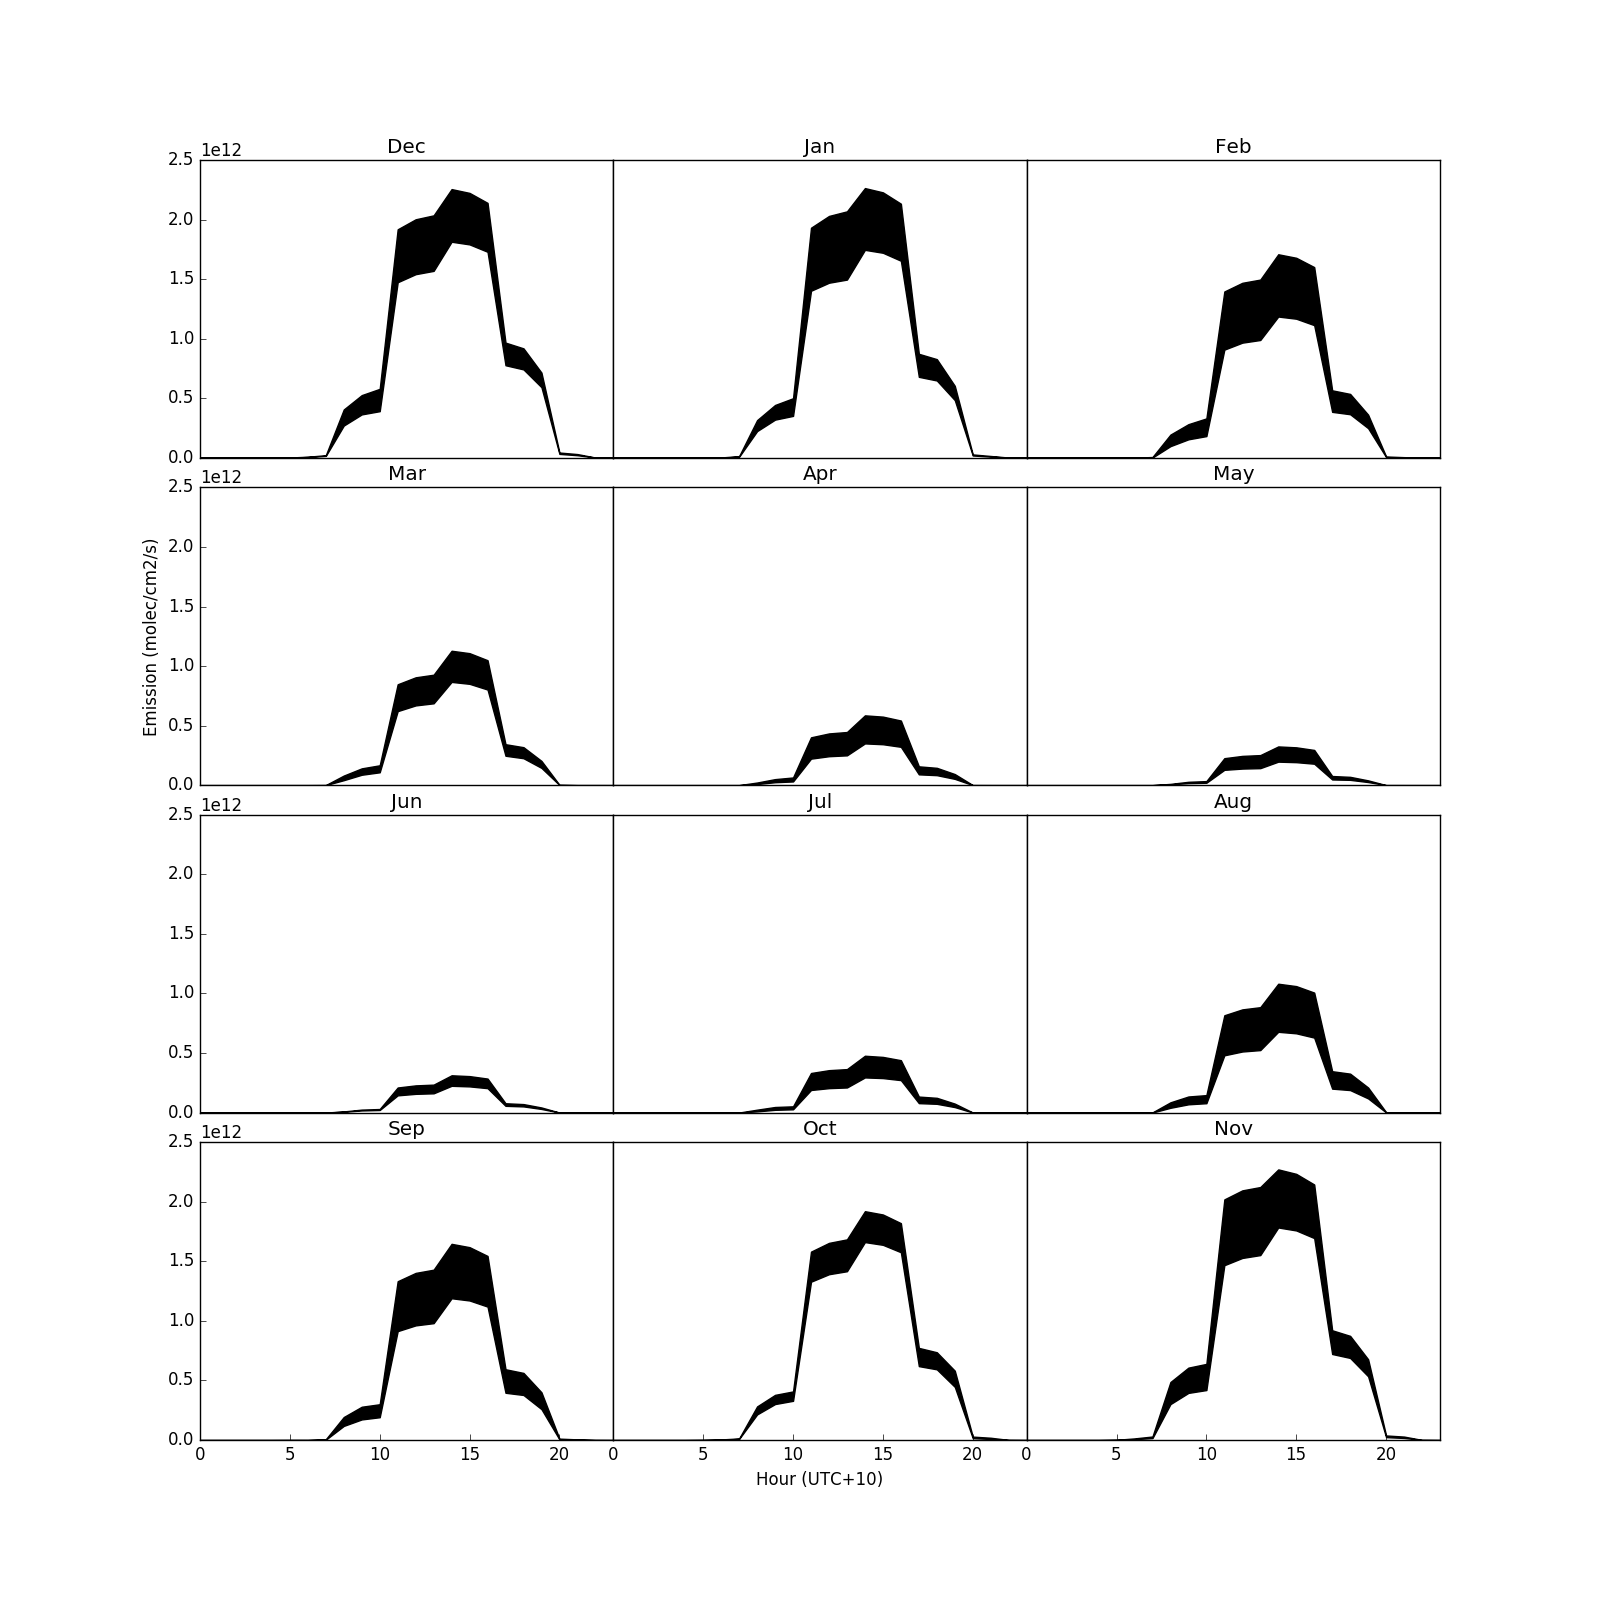
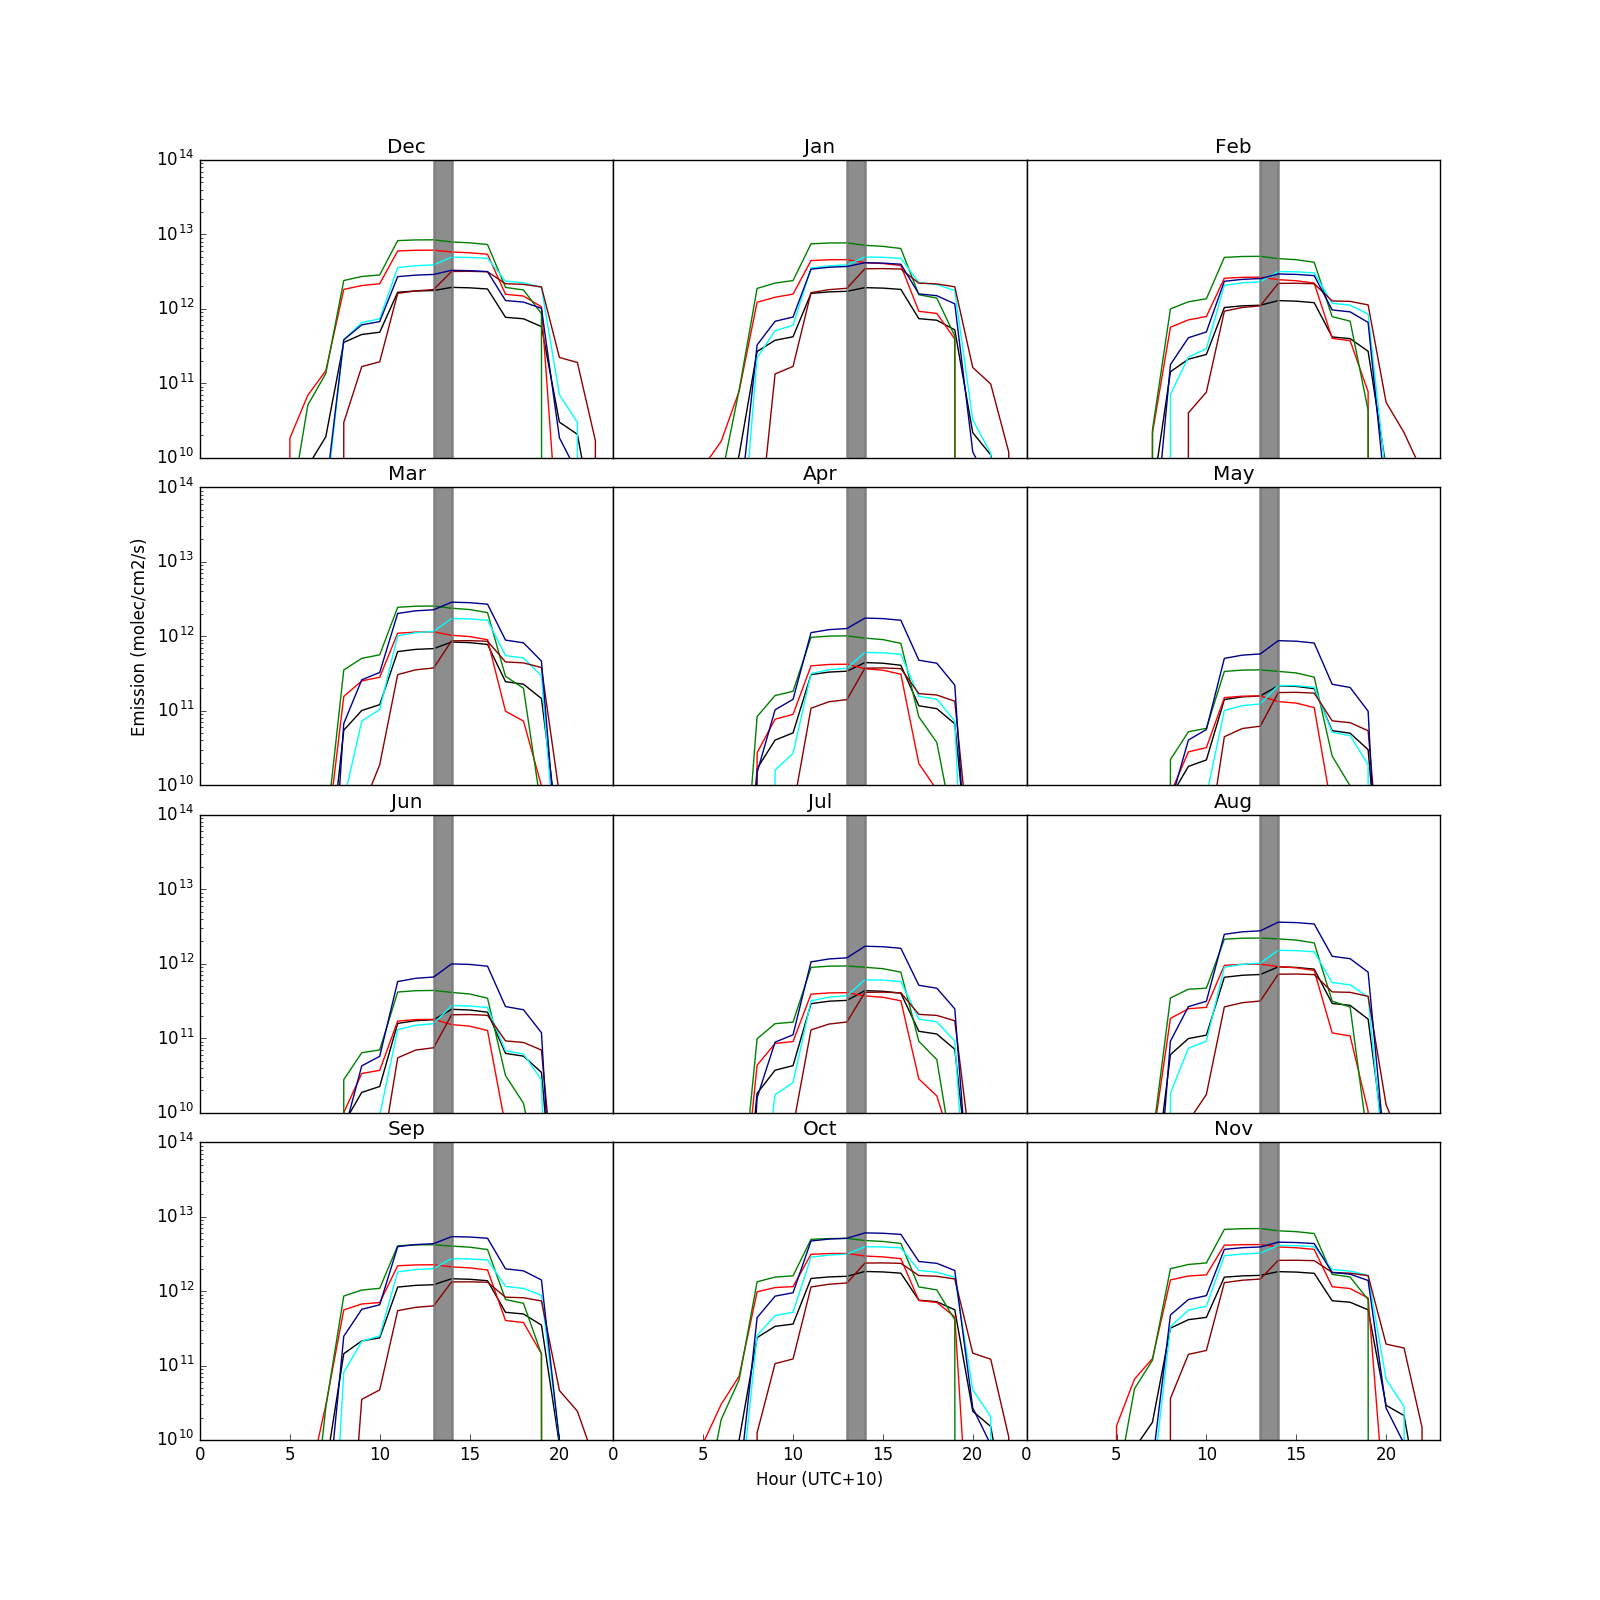
updated MEGAN fio to use yearly files,

diff --git a/classes/GC_class.py b/classes/GC_class.py
@@ -159,8 +159,9 @@ class GC_base:
                     keylevels=arr.shape[levdim] # sometimes 38 levels instead of 47...
                 else:
                     keylevels=self.nlevs
-                print (np.shape(arr),self.ntimes,self.nlats,self.nlons,keylevels)
-                print( key)
+                if __VERBOSE__:
+                    print (np.shape(arr),self.ntimes,self.nlats,self.nlons,keylevels)
+                    print (key)
                 arr = util.reshape_time_lat_lon_lev(arr,self.ntimes,self.nlats,self.nlons,keylevels)
 
             # Fix air density units to molec/cm3, in case they are in molec/m3
@@ -876,39 +877,41 @@ class Hemco_diag(GC_base):
             print('Reading Hemco_diag files:')
 
         # read data/attrs and initialise class:
-        #data,attrs=GC_fio.read_Hemco_diags(day0,dayn,month=month)
-        # For each month read the data
-        data_list=[]
-        months=util.list_months(day0,dayn)
-        for month in months:
-            data,attrs=GC_fio.read_Hemco_diags(month,util.last_day(month))
-            data_list.append(data)
-        datadict={}
+        datadict,attrs=GC_fio.read_Hemco_diags(day0,dayn,month=month)
 
-        # Combine the data
-        for key in data_list[0].keys():
-            if __VERBOSE__:
-                print("Reading ",key, np.shape(data_list[0][key]))
-
-            # Read the dimensions
-            if key in ['lat','lon']:
-                datadict[key] = data_list[0][key]
-            elif (key in ['time','ISOP_BIOG']):
-
-                # np array of the data [time, lats, lons]
-                data=np.array(data_list[0][key])
-
-                # for each extra month, append onto time dim:
-                for i in range(1,len(months)):
-                    data=np.append(data,np.array(data_list[i][key]),axis=0)
-
-                datadict[key]=data
-
-            elif __VERBOSE__:
-                print("KEY %s not being read from E_new dataset"%key )
-
-        attrs['init_date']=day0
-        attrs['n_dims']=len(np.shape(datadict['ISOP_BIOG']))
+        #        ## OLD WAY: now use yearly megan output files
+        #        # For each month read the data
+        #        data_list=[]
+        #        months=util.list_months(day0,dayn)
+        #        for month in months:
+        #            data,attrs=GC_fio.read_Hemco_diags(month,util.last_day(month))
+        #            data_list.append(data)
+        #        datadict={}
+        #
+        #        # Combine the data
+        #        for key in data_list[0].keys():
+        #            if __VERBOSE__:
+        #                print("Reading ",key, np.shape(data_list[0][key]))
+        #
+        #            # Read the dimensions
+        #            if key in ['lat','lon']:
+        #                datadict[key] = data_list[0][key]
+        #            elif (key in ['time','ISOP_BIOG']):
+        #
+        #                # np array of the data [time, lats, lons]
+        #                data=np.array(data_list[0][key])
+        #
+        #                # for each extra month, append onto time dim:
+        #                for i in range(1,len(months)):
+        #                    data=np.append(data,np.array(data_list[i][key]),axis=0)
+        #
+        #                datadict[key]=data
+        #
+        #            elif __VERBOSE__:
+        #                print("KEY %s not being read from E_new dataset"%key )
+        #
+        #        attrs['init_date']=day0
+        #        attrs['n_dims']=len(np.shape(datadict['ISOP_BIOG']))
 
         super(Hemco_diag,self).__init__(datadict,attrs)
 

diff --git a/utilities/GC_fio.py b/utilities/GC_fio.py
@@ -147,7 +147,7 @@ def read_bpch(path,keys):
     attrs['modification_times']={'desc':'When was file last modified'}
     return data,attrs
 
-def read_Hemco_diags(d0,d1=None,month=False):
+def read_Hemco_diags_hourly(d0,d1=None,month=False):
     '''
         Read Hemco diag output, one day or month at a time
     '''
@@ -194,6 +194,47 @@ def read_Hemco_diags(d0,d1=None,month=False):
     data['modification_times']=np.array(mod_times)
     attrs['modification_times']={'desc':'When was file last modified'}
 
+    return data,attrs
+
+def read_Hemco_diags(d0,d1=None, month=False):
+    '''
+        Read Hemco diag output, one day or month at a time
+    '''
+    if month:
+        d1 = util.last_day(d0)
+
+    # maybe want more than 1 year of data
+    fpre='Data/GC_Output/geos5_2x25_tropchem_biogenic/Hemco_diags/E_isop_'
+    ylist=util.list_years(d0,d1)
+    # for each day: glob matching files to list
+    files=[]
+    for y in ylist:
+        fend=y.strftime("%Y") + ".nc"
+        files.extend(glob(fpre+fend))
+
+    files.sort() # make sure they're sorted or the data gets read in poorly
+
+    with xarray.open_mfdataset(files) as ds:
+        data,attrs=dataset_to_dicts(ds,['ISOP_BIOG'])
+
+    mod_times=[]
+    for p in files:
+        mod_times.append(time.ctime(os.path.getmtime(p)))
+    data['modification_times']=np.array(mod_times)
+    attrs['modification_times']={'desc':'When was file last modified'}
+
+    # subset to requested dates
+    dates = util.datetimes_from_np_datetime64(data['time'])
+    # subtract an hour so that index represents following hour rather than prior hour
+    dates = [d-timedelta(hours=1) for d in dates]
+    di = util.date_index(d0, dates, d1)
+    #print(di)
+
+    # and store as datetime object
+    data['dates'] = np.array(dates)[di]
+    data['time'] = data['time'][di]
+    attrs['dates'] = {'desc':'python datetime objects converted from np.datetime64 "time" dim'}
+    data['ISOP_BIOG'] = data['ISOP_BIOG'][di]
     return data,attrs
 
 

diff --git a/Analyse_E_isop.py b/Analyse_E_isop.py
@@ -45,7 +45,7 @@ colours = ['chartreuse','magenta','aqua']
 ### Methods ###
 ###############
 
-def yearly_megan_cycle(d0=datetime(2005,1,1), dn=datetime(2009,12,31)):
+def yearly_megan_cycle(d0=datetime(2005,1,1), dn=datetime(2007,12,31)):
     '''
     '''
     # Read megan
@@ -81,8 +81,9 @@ def yearly_megan_cycle(d0=datetime(2005,1,1), dn=datetime(2009,12,31)):
     xlim=[0,23]
     axes[3,1].set_xlim(xlim)
     axes[1,0].set_ylabel('Emission (molec/cm2/s)')
-    ylim=[0,2.5e12]
+    ylim=[1e10,1e14]
     axes[1,0].set_ylim(ylim)
+    axes[1,0].set_yscale('log')
     titles=np.array([['Dec','Jan','Feb'],['Mar','Apr','May'],['Jun','Jul','Aug'],['Sep','Oct','Nov']])
 
     for r,region in enumerate(regions):
@@ -119,9 +120,17 @@ def yearly_megan_cycle(d0=datetime(2005,1,1), dn=datetime(2009,12,31)):
                     top=False,       # ticks along the top edge are off
                     left=jj==0,
                     bottom=ii==3)
+
+                # first highlight the 1300-1400 time window with soft grey
+                plt.fill_betweenx(ylim,[13,13],[14,14], color='grey', alpha=0.2)
+                plt.plot([13,13], ylim, color='grey',alpha=0.7)
+                plt.plot([14,14], ylim, color='grey',alpha=0.7)
+
                 #plt.fill_between(np.arange(24), high, low, color='k')
                 plt.plot(np.arange(24), mdata, color=region_colours[r])
                 plt.title(titles[ii,jj])
+
+
 
     # remove gaps between plots
     f.subplots_adjust(wspace=0, hspace=0.1)

diff --git a/localtests.py b/localtests.py
@@ -65,7 +65,19 @@ start1=timeit.default_timer()
 ### DO STUFFS
 ##########
 
+testread = GC_class.Hemco_diag(d0,d3)
 
+
+###########
+### Record and time STUJFFS
+###########
+
+end=timeit.default_timer()
+print("TIME: %6.2f minutes for stuff"%((end-start1)/60.0))
+
+
+### Things to be finished
+###
 
 # Profile plots from ozone paper:
 def monthly_profiles(hour=0, degradesondes=False):
@@ -201,15 +213,6 @@ def monthly_profiles(hour=0, degradesondes=False):
         plt.savefig(outfile)
         print("Image saved to %s"%outfile)
         plt.close(f)
-
-
-###########
-### Record and time STUJFFS
-###########
-
-end=timeit.default_timer()
-print("TIME: %6.2f minutes for stuff"%((end-start1)/60.0))
-
 
 def show_ftir_data():
     '''
